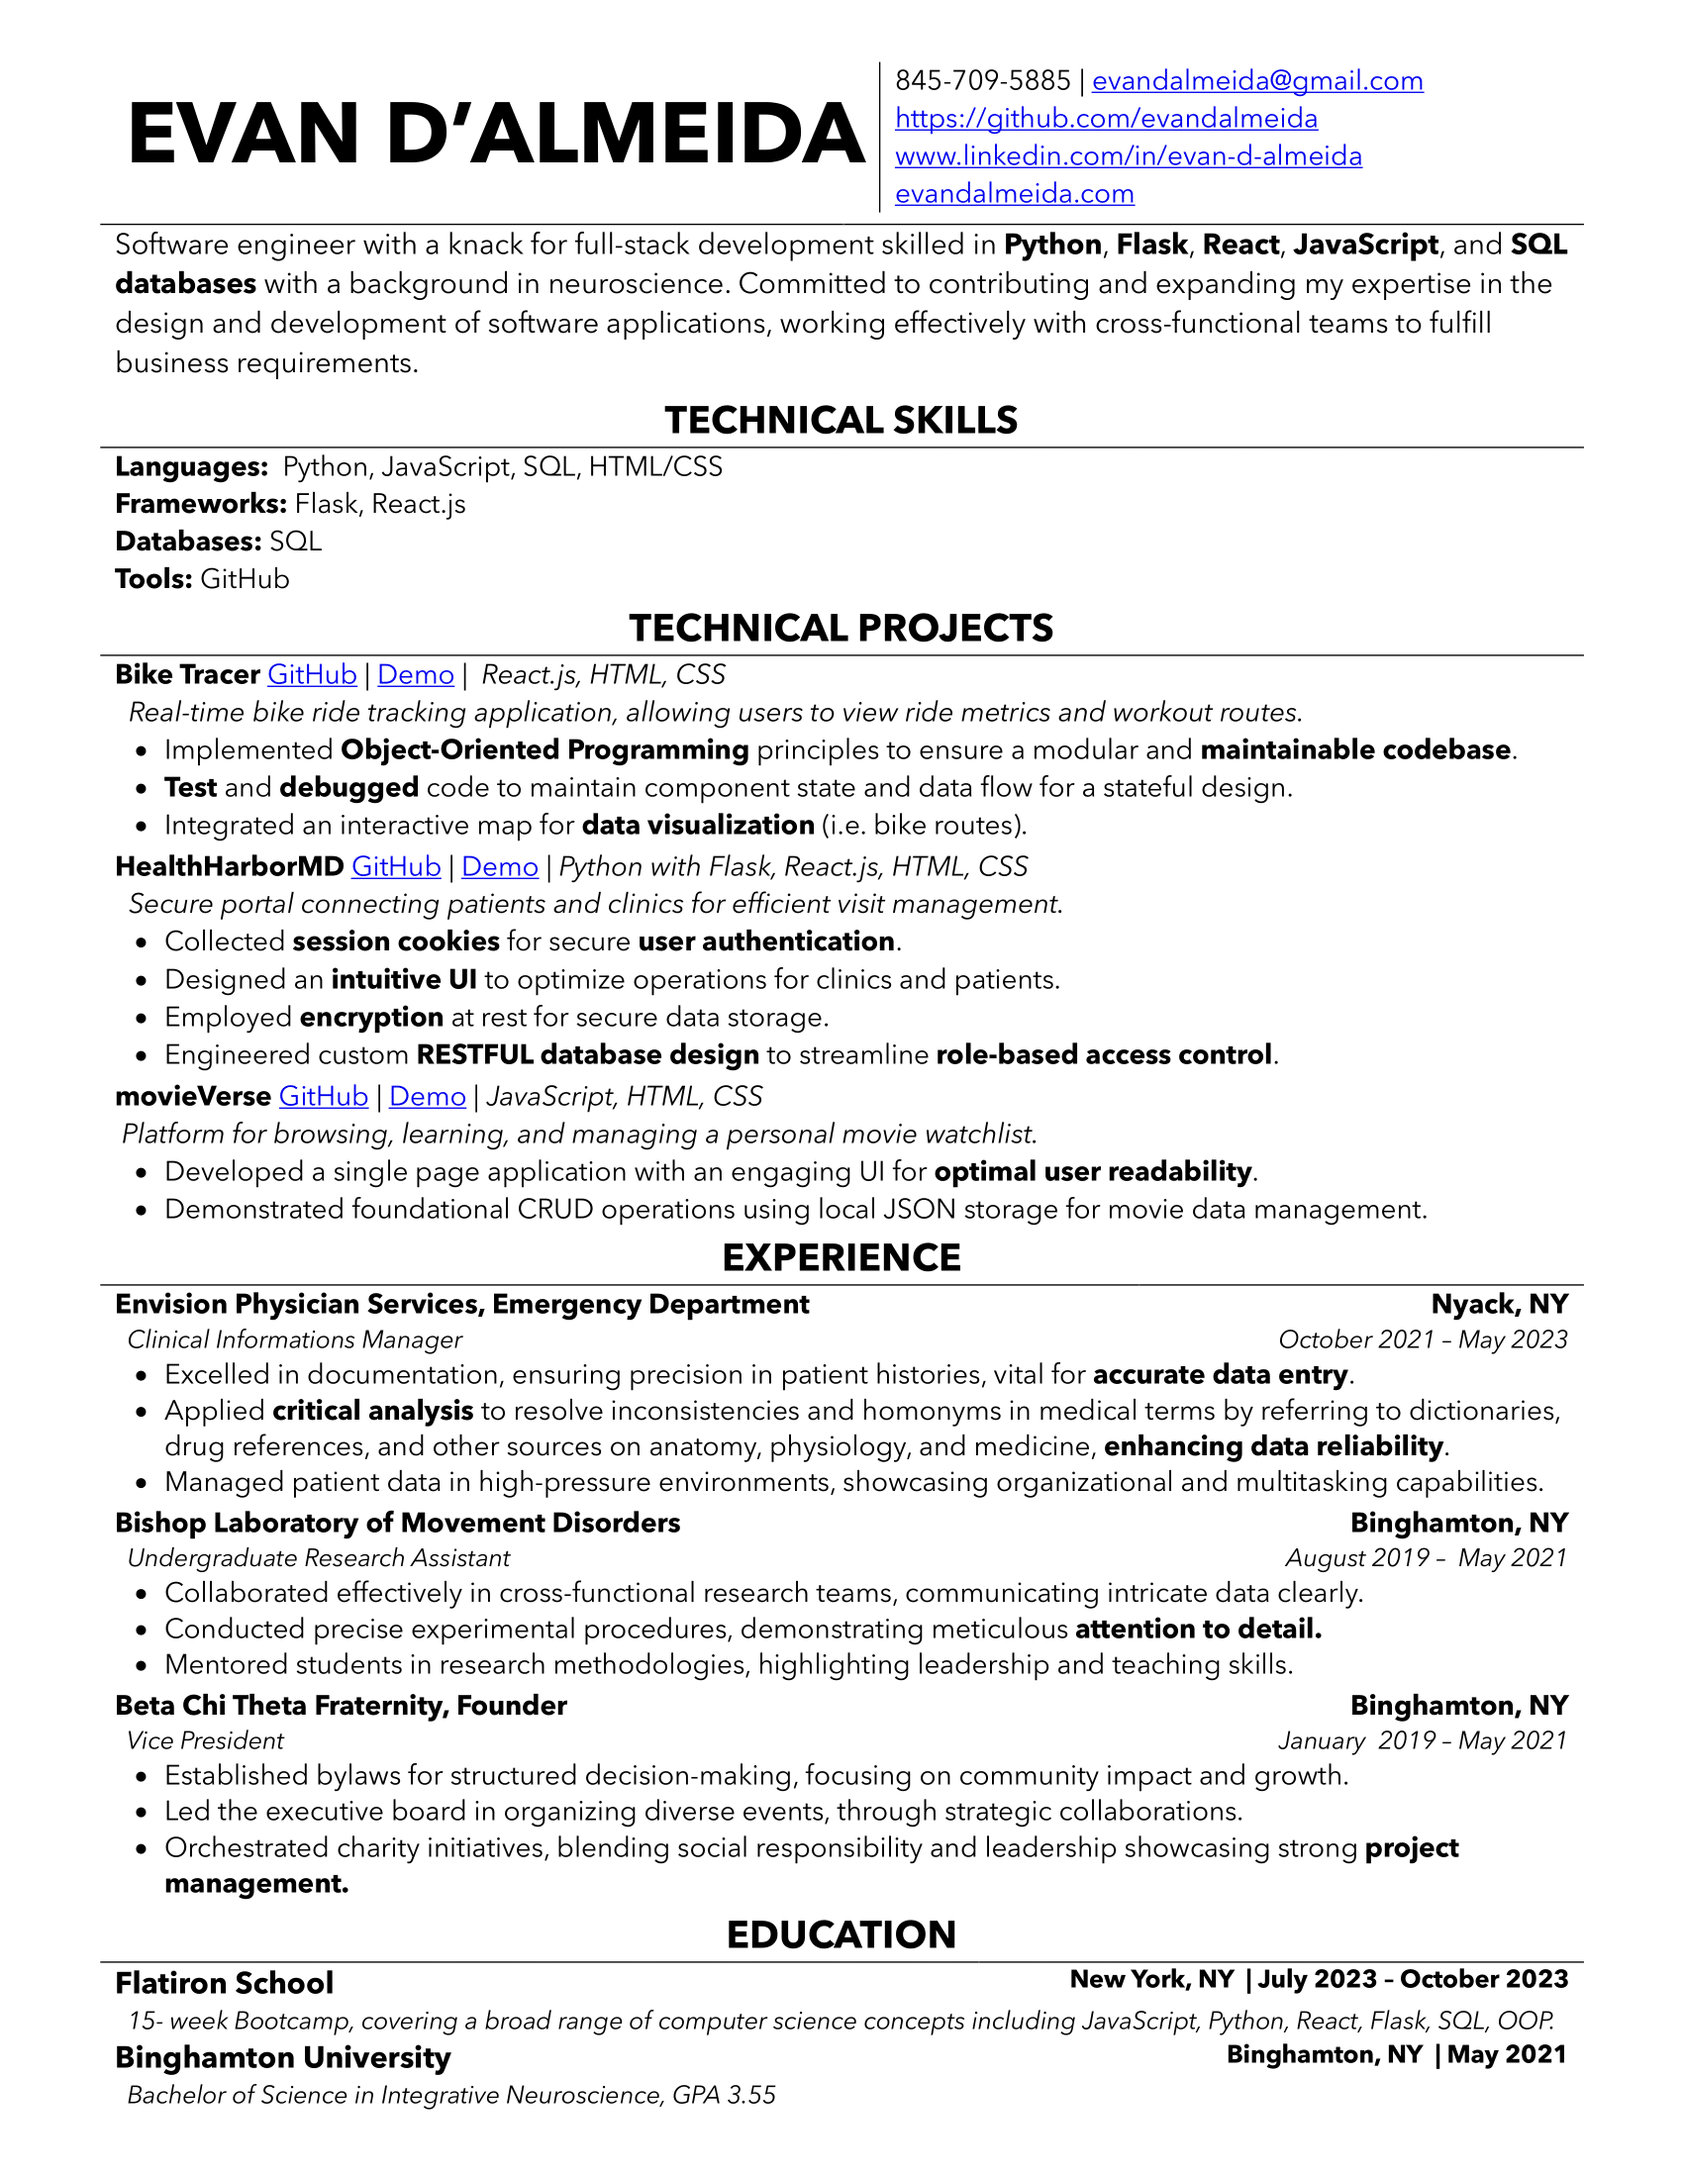
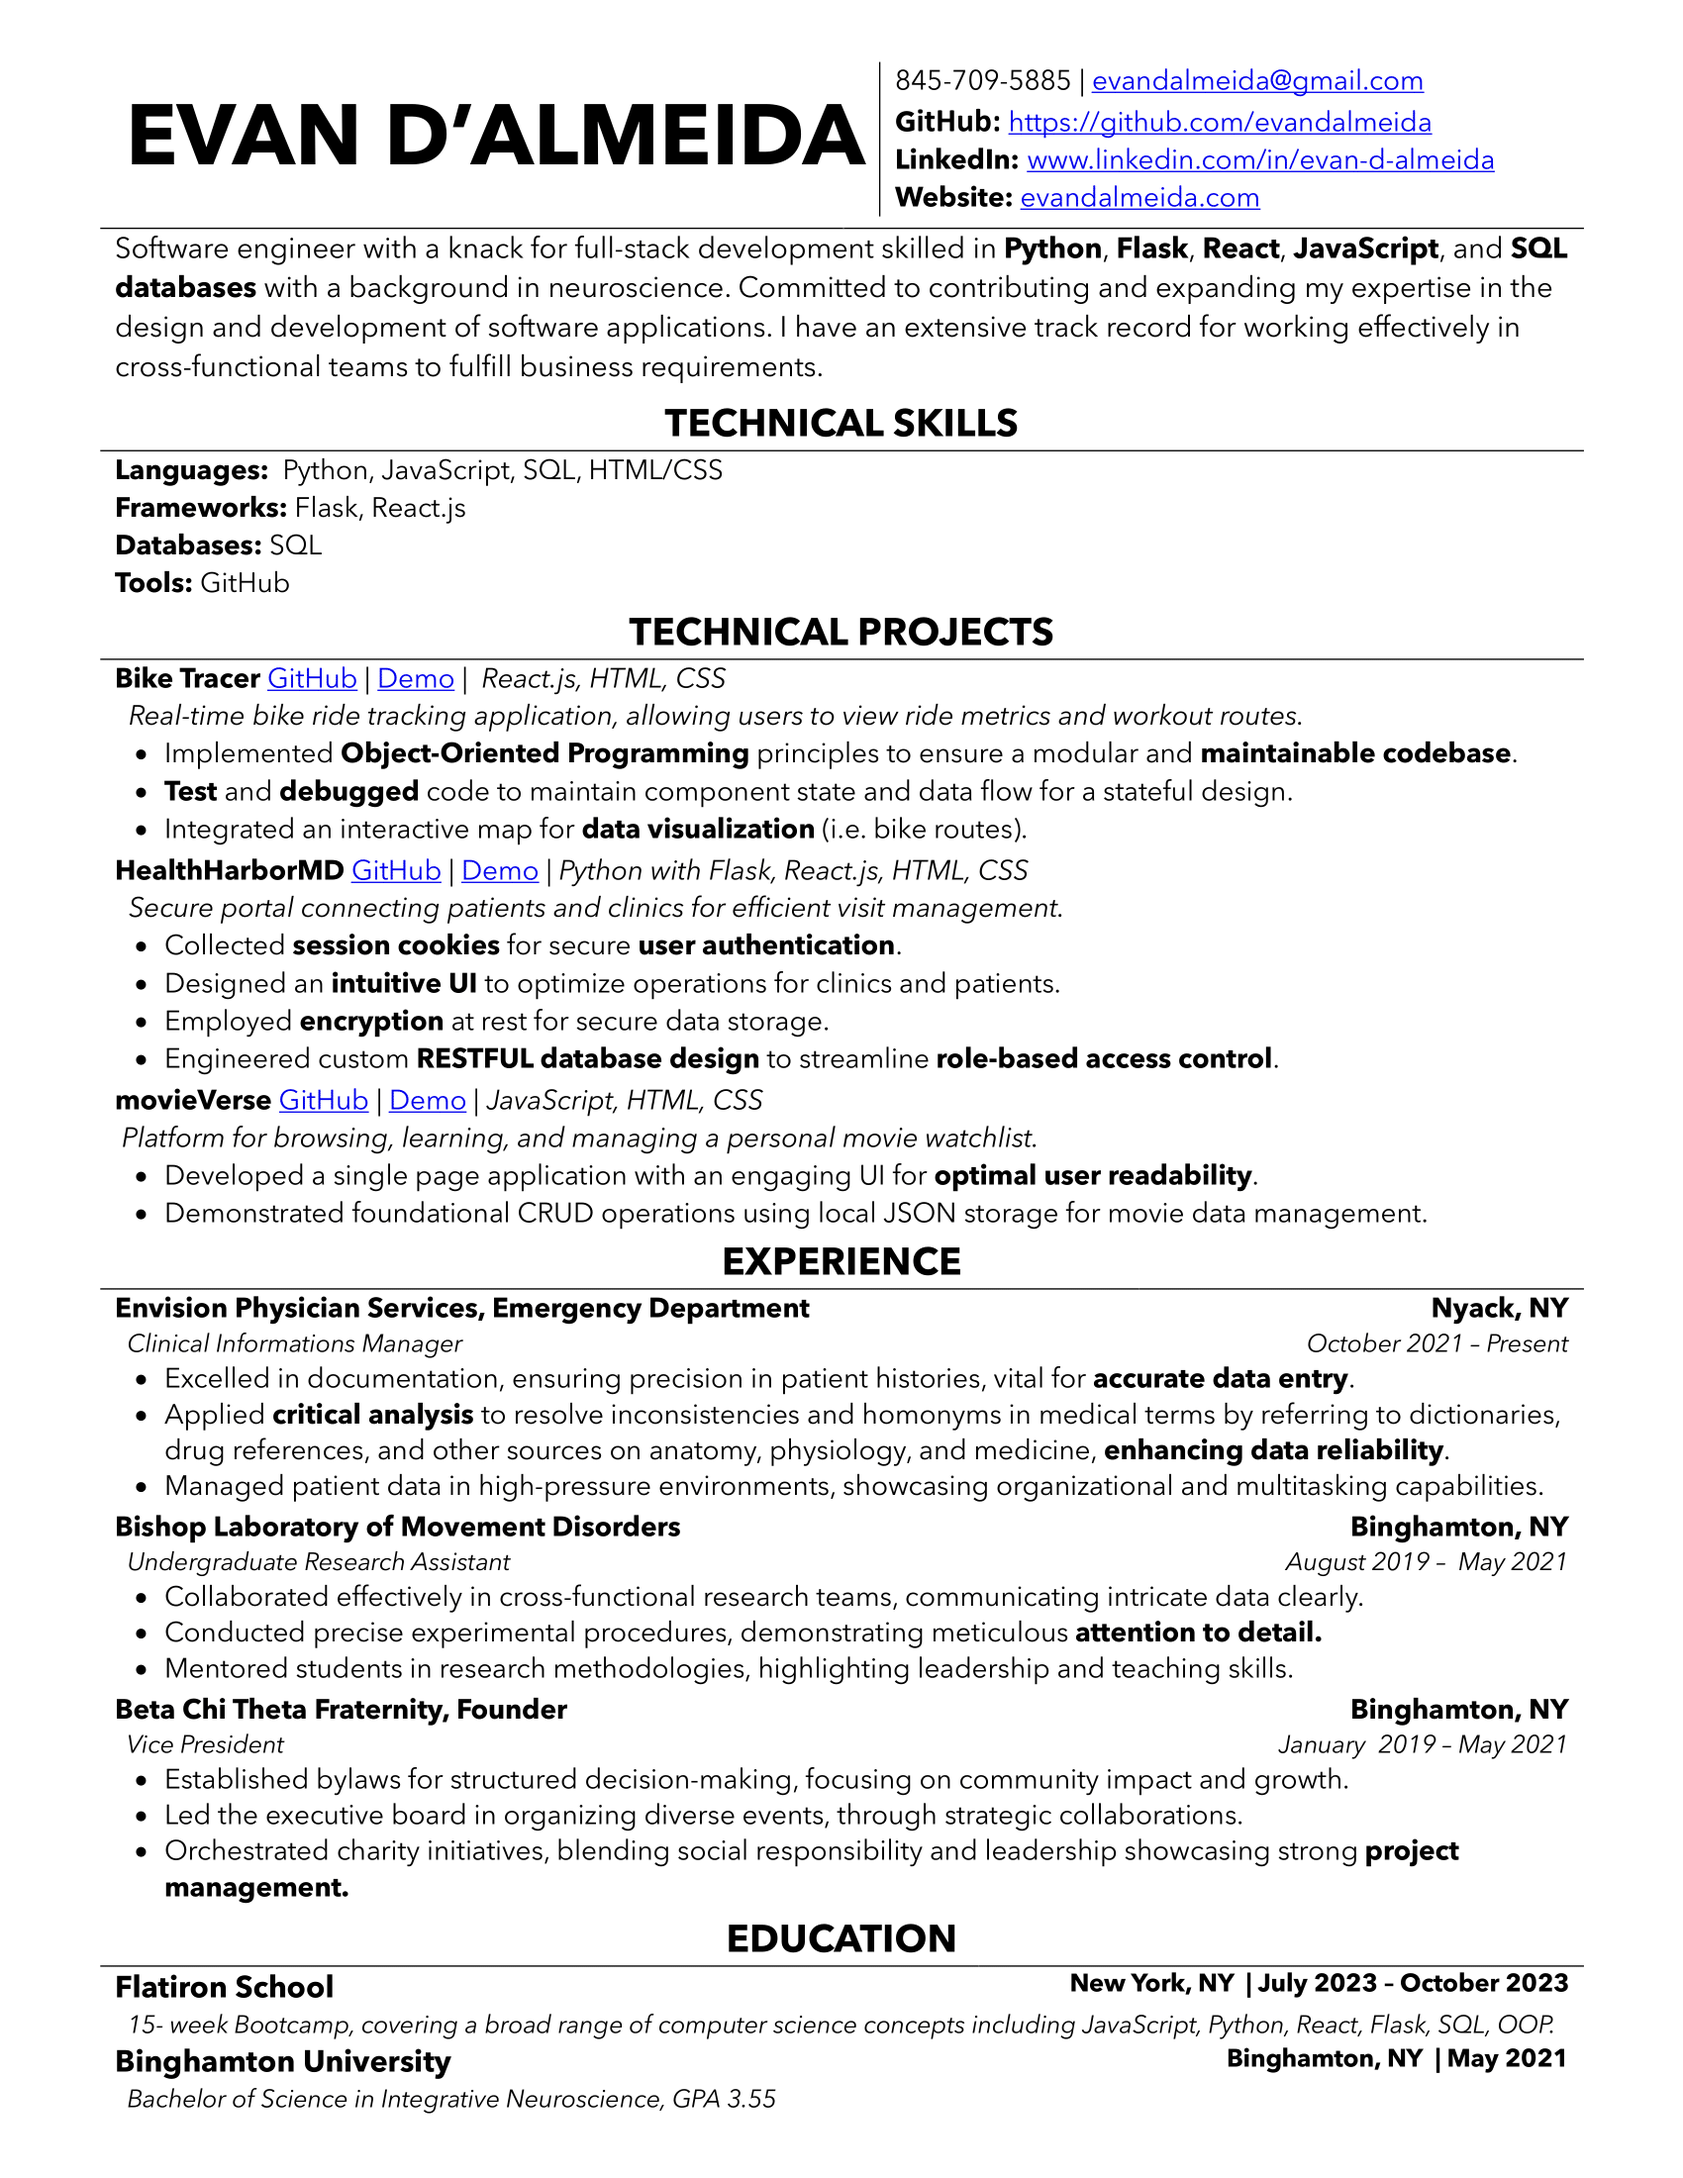
resume update

Changed region(s): [[0.0624, 0.0309, 0.9353, 0.9891], [0.5924, 0.8964, 0.9353, 0.9582], [0.53, 0.9273, 0.5612, 0.9582]]

diff --git a/src/components/Work.js b/src/components/Work.js
@@ -14,7 +14,7 @@ export default function Work() {
                         <h2 className='bar'>|</h2>
                         <h2 className='location'>Emergency Department</h2>
                     </div>
-                    <h3>11/2021 - 5/2023</h3>
+                    <h3>11/2021 - Present</h3>
                 </div>
                 <div className='job-title'>
                     <div className='job-header'>
